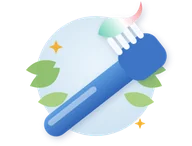
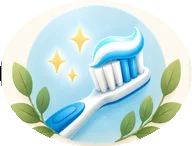
Klíček: výrazy z nové sady podle denní doby a splněných úkolů
wave (ráno), stretch (den, nic), walk = palec nahoru (rozpracováno),
book = deka a hrnek (večer, část), rest (večer, nic), sleep (po 22, nic),
heart (vše hotovo), hero = jásot, cheer = ruce vzhůru (oslava),
meditate a calm. Ikony: nová sprcha a kartáček, přidáno Ustlání postele.

Claude-Session: https://claude.ai/code/session_01544rkhydKFz4sqBHE2XWbP

diff --git a/app.js b/app.js
@@ -140,7 +140,7 @@ function level() { const x = xp(); let i = 0; while (i + 1 < LEVELS.length && x 
 const CATALOG = [
   ['Klid a mysl', [['ranni-meditace','Ranní meditace'],['dech','Dechové cvičení'],['klid','Klid v hlavě'],['vdecnost','Tři vděčnosti'],['denik','Deník'],['afirmace','Afirmace'],['vizualizace','Vizualizace'],['sebelaskavost','Sebelaskavost'],['emocni-rovnovaha','Emoční rovnováha'],['odpocinek','Odpočinek'],['hudba','Hudba pro duši'],['digitalni-klid','Digitální klid']]],
   ['Tělo a pohyb', [['ranni-prochazka','Procházka'],['kroky','10 000 kroků'],['posilovani','Posilování'],['beh','Běh'],['kolo','Kolo'],['joga','Jóga'],['protazeni','Protažení'],['pohyb','Pohyb'],['studena-sprcha','Studená sprcha'],['drzeni-tela','Držení těla'],['priroda','Pobyt v přírodě'],['slunce','Slunce a vzduch']]],
-  ['Jídlo a spánek', [['piti','Pitný režim'],['zdravy-talir','Zdravý talíř'],['ovoce','Ovoce každý den'],['mindful-jidlo','Jídlo v klidu'],['bez-cukru','Bez cukru'],['bez-alkoholu','Bez alkoholu'],['nekourim','Nekouřím'],['spanek','Spát včas'],['zuby','Čištění zubů'],['sprcha','Sprchování'],['vecerni-rutina','Večerní rutina'],['ranni-rutina','Ranní rutina']]],
+  ['Jídlo a spánek', [['piti','Pitný režim'],['zdravy-talir','Zdravý talíř'],['ovoce','Ovoce každý den'],['mindful-jidlo','Jídlo v klidu'],['bez-cukru','Bez cukru'],['bez-alkoholu','Bez alkoholu'],['nekourim','Nekouřím'],['spanek','Spát včas'],['zuby','Čištění zubů'],['sprcha','Sprchování'],['postel','Ustlání postele'],['vecerni-rutina','Večerní rutina'],['ranni-rutina','Ranní rutina']]],
   ['Práce a růst', [['fokus','Fokus'],['hluboka-prace','Hluboká práce'],['plan-dne','Plán dne'],['tydenni-revize','Týdenní revize'],['cil-tydne','Cíl týdne'],['uceni','Učení'],['cteni','Čtení'],['kreativita','Kreativita'],['osobni-rust','Osobní růst'],['sila-navyku','Síla návyků']]],
   ['Lidé, domov, peníze', [['socialni','Sociální spojení'],['pomoc','Pomoc druhým'],['dobry-skutek','Dobrý skutek'],['uklid','Úklid prostoru'],['finance','Finanční disciplína'],['setreni','Šetřím chytře']]]
 ];
@@ -348,6 +348,7 @@ function homeMood(hour, nDone, total, today) {
   if (!today) return nDone ? 'walk' : 'rest';
   if (hour < 11) return nDone ? 'walk' : 'wave';
   if (hour < 18) return nDone ? 'walk' : 'stretch';
+  if (hour >= 22) return nDone ? 'book' : 'sleep';
   return nDone ? 'book' : 'rest';
 }
 function moodLead(mood, hour, nDone, total) {
@@ -357,7 +358,8 @@ function moodLead(mood, hour, nDone, total) {
     case 'walk': return `Jde ti to. ${nDone} z ${total} hotovo, pokračuj svým tempem.`;
     case 'stretch': return 'Ještě není pozdě. Jedna malá věc stačí.';
     case 'book': return `Klidný večer. ${nDone} z ${total} máš za sebou.`;
-    case 'rest': return hour >= 22 ? 'Dnes Klíček odpočíval. Zítra je nový den.' : 'Klidný večer. Jednu malou věc ještě stihneš.';
+    case 'rest': return 'Klidný večer. Jednu malou věc ještě stihneš.';
+    case 'sleep': return 'Dnes Klíček odpočíval. Zítra je nový den, žádný stres.';
   }
   return 'Pomalu, ale jistě.';
 }

diff --git a/index.html b/index.html
@@ -55,10 +55,7 @@ main{padding-bottom:calc(96px + env(safe-area-inset-bottom,0px))}
 .ringcard span{font-size:11px;color:var(--muted);font-weight:700}
 .banner{position:relative;max-width:560px;margin:4px auto 0;height:250px;overflow:hidden}
 .banner .masc{position:absolute;inset:0}
-.banner .masc img{width:100%;height:100%;object-fit:cover;object-position:50% 22%;-webkit-mask-image:linear-gradient(180deg,transparent 0,#000 14%,#000 70%,transparent 100%),linear-gradient(90deg,transparent 0,#000 12%,#000 88%,transparent 100%);-webkit-mask-composite:source-in;mask-image:linear-gradient(180deg,transparent 0,#000 14%,#000 70%,transparent 100%),linear-gradient(90deg,transparent 0,#000 12%,#000 88%,transparent 100%);mask-composite:intersect}
-.banner-book .masc img,.banner-heart .masc img{object-position:50% 52%}
-.banner-walk .masc img{object-position:50% 38%}
-.banner-rest .masc img{object-position:50% 34%}
+.banner .masc img{width:100%;height:100%;object-fit:cover;object-position:50% 40%;-webkit-mask-image:linear-gradient(180deg,transparent 0,#000 14%,#000 70%,transparent 100%),linear-gradient(90deg,transparent 0,#000 12%,#000 88%,transparent 100%);-webkit-mask-composite:source-in;mask-image:linear-gradient(180deg,transparent 0,#000 14%,#000 70%,transparent 100%),linear-gradient(90deg,transparent 0,#000 12%,#000 88%,transparent 100%);mask-composite:intersect}
 :root[data-theme="dark"] .banner .masc img{filter:brightness(.82) saturate(.95)}
 .bubble{position:absolute;right:max(14px,env(safe-area-inset-right,0px));bottom:30px;background:var(--card);color:var(--ink);border-radius:18px;padding:10px 14px;font-size:13px;font-weight:800;max-width:180px;box-shadow:0 8px 24px rgba(120,80,30,.16);display:flex;gap:8px;align-items:flex-start;z-index:1}
 .bubble i{font-style:normal;font-size:16px;line-height:1.1}

diff --git a/sw.js b/sw.js
@@ -1,5 +1,5 @@
-const CACHE = 'lenochod-v4';
-const CORE = ['./', 'index.html', 'app.js', 'mascot.js', 'manifest.webmanifest', 'icon-192.png', 'img/hero.webp', 'img/calm.webp', 'img/cheer.webp', 'img/face.webp', 'img/wave.webp', 'img/walk.webp', 'img/book.webp', 'img/stretch.webp', 'img/heart.webp', 'img/rest.webp', 'img/meditate.webp'];
+const CACHE = 'lenochod-v5';
+const CORE = ['./', 'index.html', 'app.js', 'mascot.js', 'manifest.webmanifest', 'icon-192.png', 'img/hero.webp', 'img/calm.webp', 'img/cheer.webp', 'img/face.webp', 'img/wave.webp', 'img/walk.webp', 'img/book.webp', 'img/stretch.webp', 'img/heart.webp', 'img/rest.webp', 'img/meditate.webp', 'img/sleep.webp'];
 self.addEventListener('install', e => { e.waitUntil(caches.open(CACHE).then(c => c.addAll(CORE)).then(() => self.skipWaiting())); });
 self.addEventListener('activate', e => { e.waitUntil(caches.keys().then(ks => Promise.all(ks.filter(k => k !== CACHE).map(k => caches.delete(k)))).then(() => self.clients.claim())); });
 // network first for the app itself (so updates arrive), cache fallback offline; fonts cache-first

diff --git a/mascot.js b/mascot.js
@@ -1,6 +1,6 @@
 // Lenochod – mascot images. mood: 'happy' | 'calm' | 'cheer' | 'face'
 window.mascot = function (mood = 'happy', opts = {}) {
-  const src = { happy: 'hero', calm: 'calm', cheer: 'cheer', face: 'face', sleep: 'calm', wave: 'wave', walk: 'walk', book: 'book', stretch: 'stretch', heart: 'heart', rest: 'rest', meditate: 'meditate' }[mood] || 'hero';
+  const src = { happy: 'hero', calm: 'calm', cheer: 'cheer', face: 'face', sleep: 'sleep', wave: 'wave', walk: 'walk', book: 'book', stretch: 'stretch', heart: 'heart', rest: 'rest', meditate: 'meditate' }[mood] || 'hero';
   const leaf = opts.flower ? '<span class="gold-leaf" title="Zlatý lístek"><svg viewBox="0 0 24 24"><path d="M20 3C10 3 4 8 4 15c0 2 .6 3.8 1.6 5.2C7 13 12 9 17 7c-4 3-8 7-10 14 1 .5 2.2.8 3.4.8C17 21.8 21 15 20 3z" fill="#E9A23B"/></svg></span>' : '';
   return `<span class="masc masc-${mood}"><img src="img/${src}.webp" alt="" draggable="false">${leaf}</span>`;
 };
